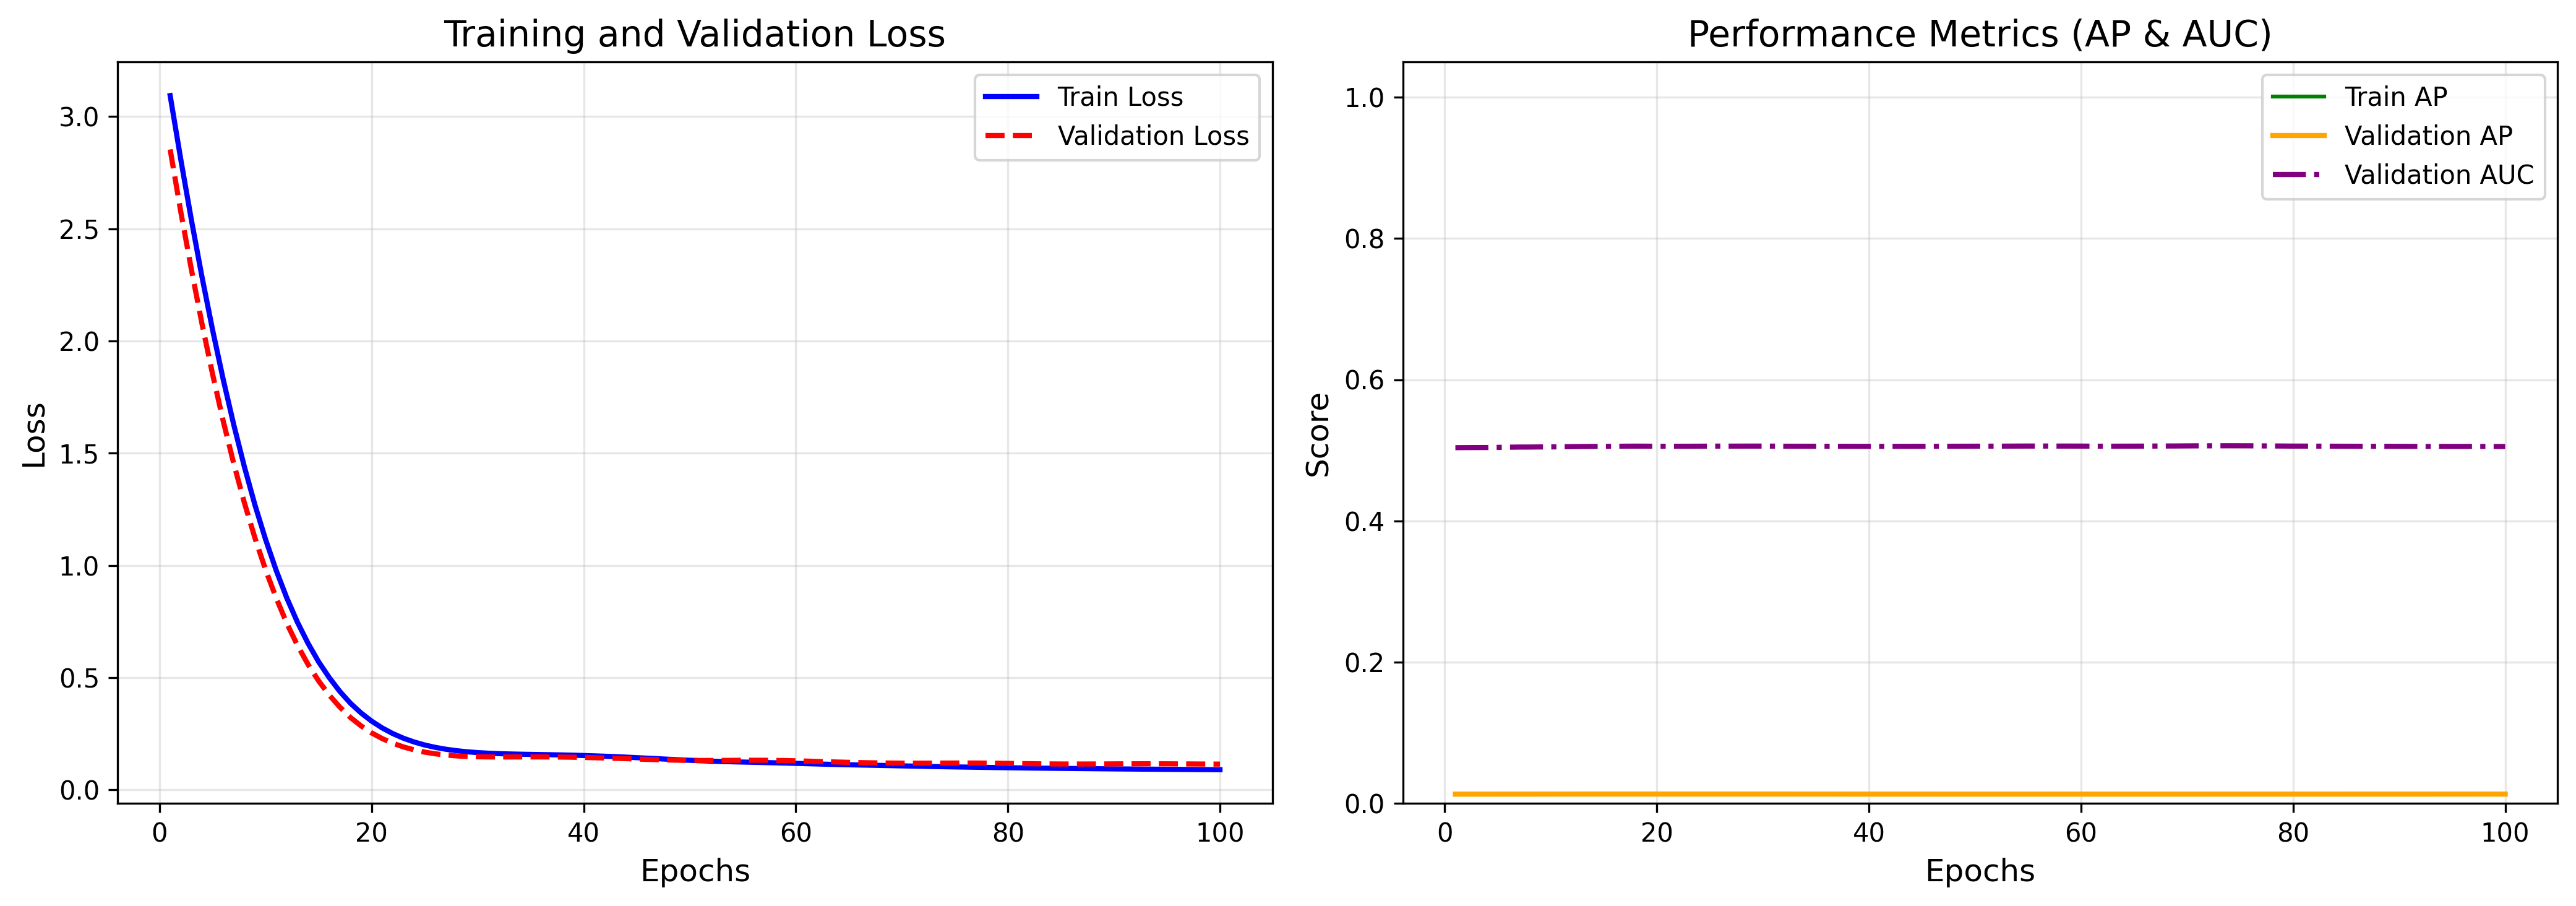
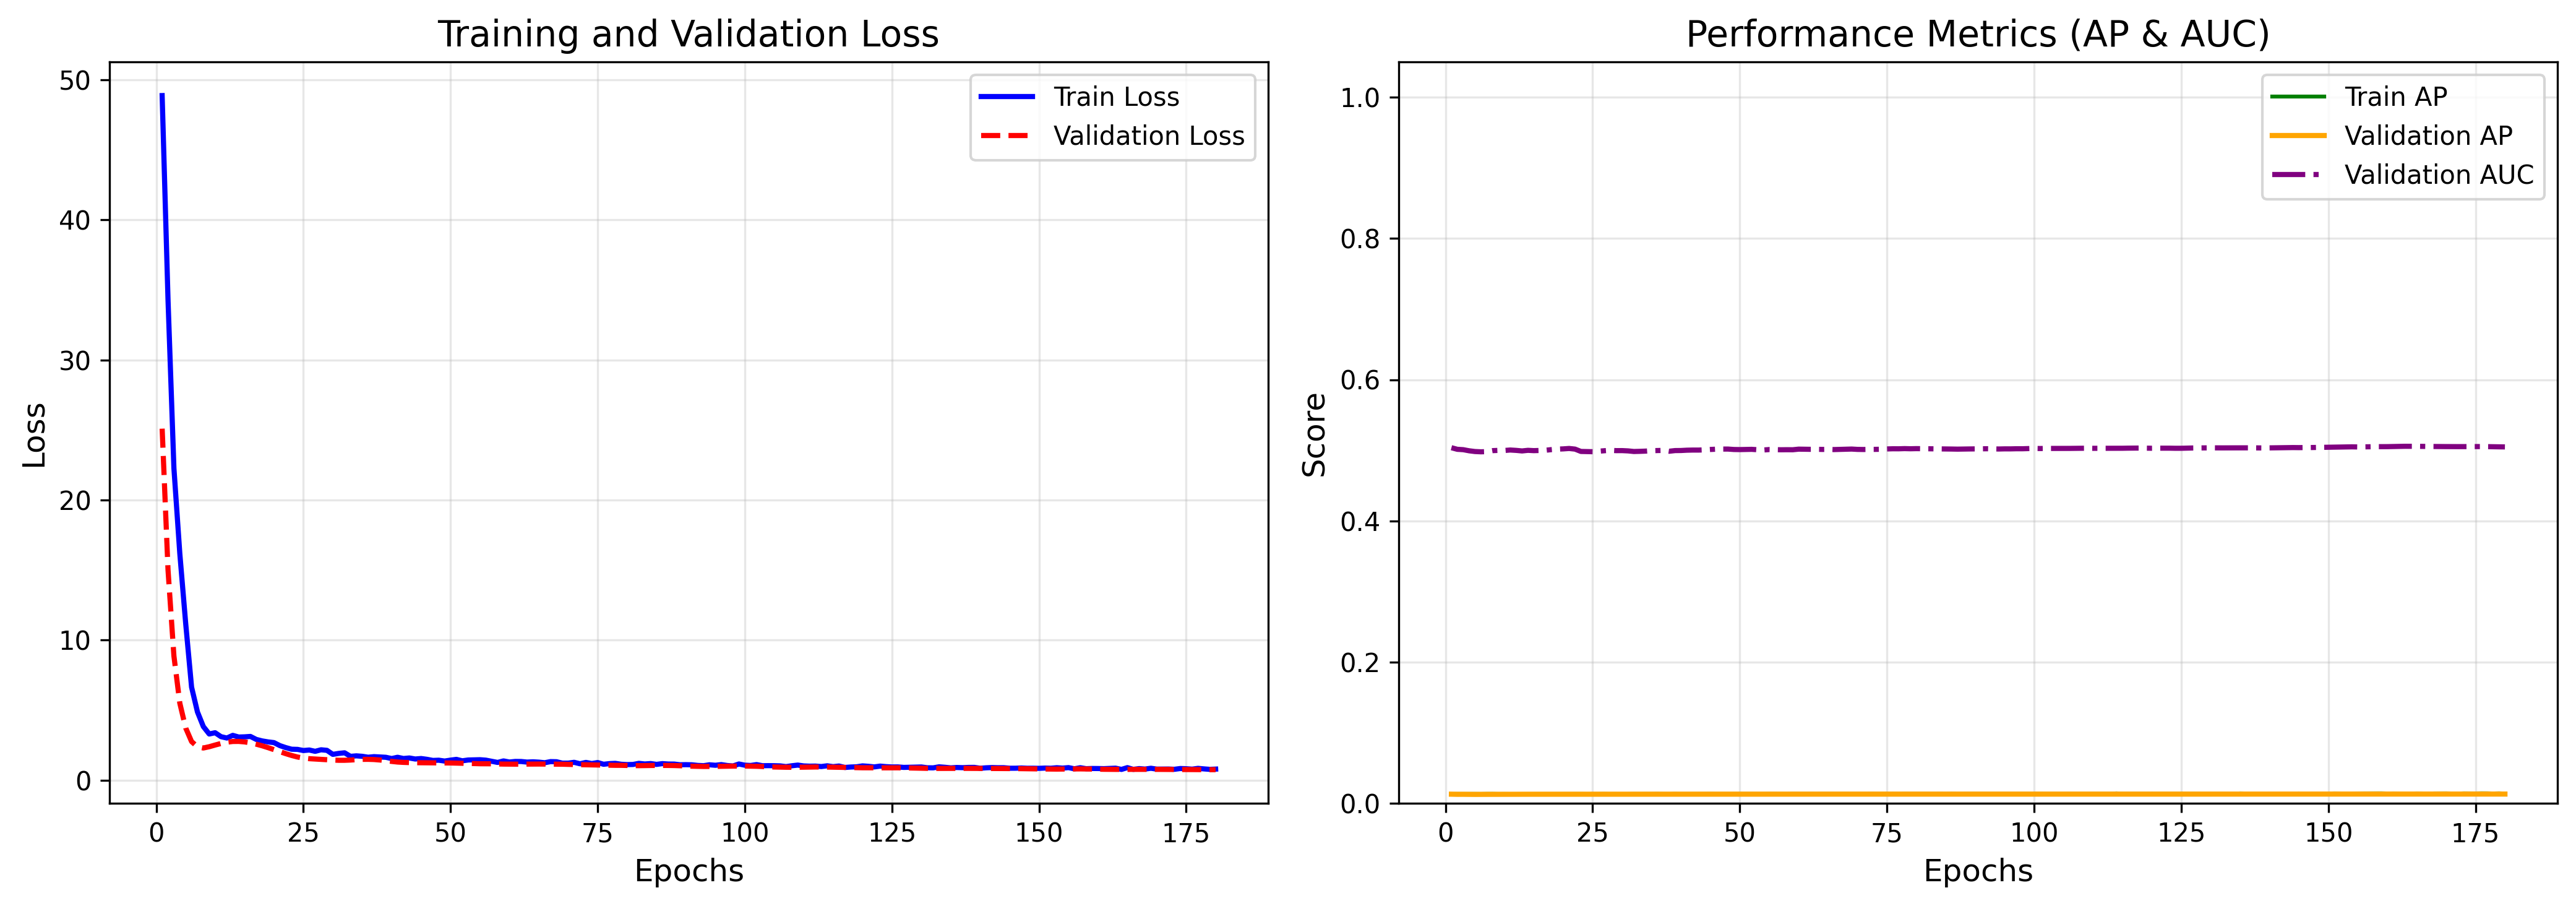
调整了一些可能产生问题的地方，结果好了一点。但就一点

diff --git a/model/model_test.py b/model/model_test.py
@@ -1,16 +1,37 @@
 import models  
 import torch
+from sklearn.metrics import average_precision_score, hamming_loss, roc_auc_score
 
 
-# 模拟测试
-device = torch.device('cuda' if torch.cuda.is_available() else print('cpu'))
-model = models.AIMNet(view_dims=[100, 200, 150], n_classes=10).to(device)
+# # 模拟测试
+# device = torch.device('cuda' if torch.cuda.is_available() else print('cpu'))
+# model = models.AIMNet(view_dims=[100, 200, 150], n_classes=10).to(device)
 
-# 伪造 32 个样本的输入
-mock_x = [torch.randn(32, 100).to(device), torch.randn(32, 200).to(device), torch.randn(32, 150).to(device)]
-mock_W = (torch.rand(32, 3) > 0.5).float().to(device) # 必须是 float 类型
-mock_edge = torch.randint(0, 10, (2, 30)).to(device)
+# # 伪造 32 个样本的输入
+# mock_x = [torch.randn(32, 100).to(device), torch.randn(32, 200).to(device), torch.randn(32, 150).to(device)]
+# mock_W = (torch.rand(32, 3) > 0.5).float().to(device) # 必须是 float 类型
+# mock_edge = torch.randint(0, 10, (2, 30)).to(device)
 
-# 运行前向传播
-pred = model(mock_x, mock_edge, mock_W)
-print("正向传播成功！输出形状为:", pred.shape) # 期望输出: torch.Size([32, 10])
+# # 运行前向传播
+# pred = model(mock_x, mock_edge, mock_W)
+# print("正向传播成功！输出形状为:", pred.shape) # 期望输出: torch.Size([32, 10])
+
+if __name__ == "__main__":
+
+    data = torch.load("data/processed/train_and_test_corel5k_03test_rate_05missing_rate.pt")
+    train_data = data['train']
+    val_data = data['test']
+    
+    average_precision = average_precision_score(train_data['Y'][train_data['G'] == 1], train_data['Y'][train_data['G'] == 1])
+    AUC = roc_auc_score(train_data['Y'], train_data['Y'])
+    print("训练集平均准确率:", average_precision)
+    print("训练集AUC:", AUC)
+
+    # def features_num_extract(data):
+    #     view_dims = []
+    #     for i in range(len(data['X'])):
+    #         view_dims.append(data['X'][i].shape[1])
+    #     return view_dims
+    
+    # print(features_num_extract(train_data))
+    # print(train_data['X'][0].shape)

diff --git a/model/models.py b/model/models.py
@@ -13,18 +13,37 @@ class AIMNet(nn.Module):
         self.feature_extractors = nn.ModuleList([
             nn.Sequential(
                 nn.Linear(d_v, d_e),
-                nn.ReLU(),
-                nn.Linear(d_e, d_e)
+                nn.LeakyReLU(),
+                nn.Linear(d_e, d_e),
+                nn.Dropout(p = 0.2),
             ) for d_v in view_dims
         ])
+        self.parameters_reset(self.feature_extractors)
         
         # 2. 标签分支：初始嵌入和 K-head GAT
         self.label_embed = nn.Parameter(torch.Tensor(n_classes, n_classes))
         nn.init.xavier_uniform_(self.label_embed)
-        self.gat = GATConv(n_classes, d_e, heads=4, concat=False)
-        
+        self.gat = GATConv(n_classes, d_e, heads=8, concat=False)
+        self.gat.apply(self._init_gat_weights)
+
+
         # 3. 分类器：映射交互后的嵌入到 1 维 Logit (对应公式 8 后续)
         self.classifier = nn.Linear(d_e, 1)
+        nn.init.xavier_uniform_(self.classifier.weight)
+        
+
+    def parameters_reset(self,modulelist):
+        for module in modulelist:
+            for m in module.modules():
+                if isinstance(m, nn.Linear):
+                    nn.init.kaiming_uniform_(m.weight)
+                    nn.init.zeros_(m.bias)
+    
+    def _init_gat_weights(self, module):
+        if isinstance(module, nn.Linear):
+            nn.init.xavier_uniform_(module.weight)
+            if module.bias is not None:
+                nn.init.zeros_(module.bias)
 
     def attention_induced_imputation(self, z_list, W):
         A_list = []
@@ -39,6 +58,8 @@ class AIMNet(nn.Module):
 
         A_stack = torch.stack(A_list, dim=0)
         A_bar, _ = torch.max(A_stack, dim=0)
+
+        A_bar.fill_diagonal_(0.0)
 
         sum_A_bar = torch.sum(A_bar, dim=1, keepdim=True) + 1e-8
         A_bar_normalized = A_bar / sum_A_bar
@@ -92,17 +113,18 @@ class AIMNet(nn.Module):
             Q_list.append(q_v)
             
         Q = torch.stack(Q_list, dim=1) # [n_sample, m_views]
+        Q = torch.clamp(Q, min=0.0, max=1.0)
         Q_prime = (1.0 - W) * Q + W    # 真实存在的实例置信度固化为 1
         
         # ---- 第四阶段：多视图后期动态融合 (公式 11) ----
         Q_prime_expanded = Q_prime.unsqueeze(1) # [n_sample, 1, m_views]
         # 对各个视图的预测进行置信度加权平均
         fused_logits = torch.sum(P_stack * Q_prime_expanded, dim=2) / (torch.sum(Q_prime, dim=1, keepdim=True) + 1e-8)
-        fused_P = torch.sigmoid(fused_logits) # [n_sample, n_classes]
+        # fused_P = torch.sigmoid(fused_logits) # [n_sample, n_classes]
         
-        return fused_P
+        return fused_logits
 
-    def compute_loss(self, fused_P, Y, G):
+    def compute_loss(self, fused_logits, Y, G):
         """
         对应公式 (12): Masked Binary Cross Entropy Loss
         Args:
@@ -112,7 +134,7 @@ class AIMNet(nn.Module):
         """
         eps = 1e-8
         # 计算每个位置完整的交叉熵
-        loss_matrix = -(Y * torch.log(fused_P + eps) + (1.0 - Y) * torch.log(1.0 - fused_P + eps))
+        loss_matrix = F.binary_cross_entropy_with_logits(fused_logits, Y, reduction='none')
         
         # 使用掩码矩阵 G 过滤掉未知标签的损失
         masked_loss = loss_matrix * G

diff --git a/model/model_train.py b/model/model_train.py
@@ -135,10 +135,10 @@ def train_aimnet(model, train_data, val_data, epochs=200, lr=0.001, weight_decay
         optimizer.zero_grad()
         
         # 前向传播
-        fused_P = model(train_inputs['x_list'], train_inputs['edge_index'], train_inputs['W'])
+        fused_logits = model(train_inputs['x_list'], train_inputs['edge_index'], train_inputs['W'])
         
         # 计算带遮罩的损失 (公式 12)
-        loss = model.compute_loss(fused_P, train_inputs['Y'], train_inputs['G'])
+        loss = model.compute_loss(fused_logits, train_inputs['Y'], train_inputs['G'])
         
         # 反向传播与参数更新
         loss.backward()
@@ -148,10 +148,13 @@ def train_aimnet(model, train_data, val_data, epochs=200, lr=0.001, weight_decay
         # ================= 验证阶段 =================
         model.eval()
         with torch.no_grad():
-            val_P = model(val_inputs['x_list'], val_inputs['edge_index'], val_inputs['W'])
-            val_loss = model.compute_loss(val_P, val_inputs['Y'], val_inputs['G'])
+            val_logits = model(val_inputs['x_list'], val_inputs['edge_index'], val_inputs['W'])
+            val_loss = model.compute_loss(val_logits, val_inputs['Y'], val_inputs['G'])
             
             # 计算当前 Epoch 的性能指标
+            fused_P = torch.sigmoid(fused_logits)
+            val_P = torch.sigmoid(val_logits)
+
             train_metrics = compute_metrics(train_inputs['Y'], fused_P, train_inputs['G'])
             val_metrics = compute_metrics(val_inputs['Y'], val_P, val_inputs['G'])
             
@@ -210,4 +213,4 @@ if __name__ == "__main__":
     
     # 3. 运行训练 (如果没有 GPU，可以将 device 改为 "cpu")
     device = "cuda" if torch.cuda.is_available() else "cpu"
-    trained_model = train_aimnet(model, train_data, val_data, epochs=100, lr=0.00001, device=device)
+    trained_model = train_aimnet(model, train_data, val_data, epochs=200, lr=0.0001, device=device)